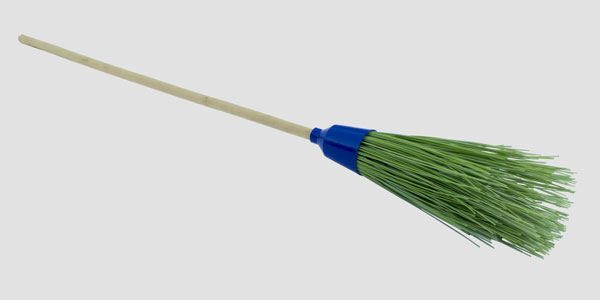
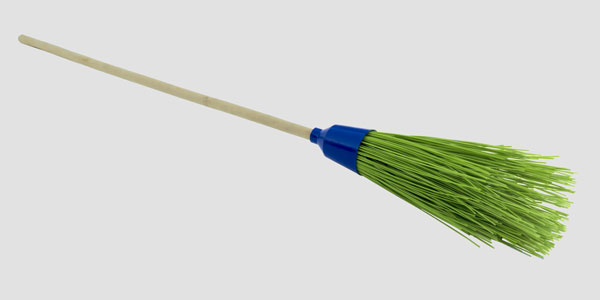
Added product cost. Fixed photoes. Removed company caption from keywords.

Changed region(s): [[0.6, 0.42, 0.96, 0.87]]

diff --git a/index.html b/index.html
@@ -1,4 +1,4 @@
-<!DOCTYPE html>
+<!DOCTYPE html>
 <html>
 <head>
 	<title>Метла круглая и плоская, щетка гардена, щетка GERDA. Производство. Центр ВТО</title>
@@ -8,7 +8,7 @@
 	<meta http-equiv="Cache-Control" content="max-age=86400; must-revalidate">
 	<meta name="viewport" content="width=device-width, initial-scale=1">
 
-	<meta name="keywords" content="метла круглая плоская полипропиленовая щетка гардена пластмассовая пластиковая уборочный инвентарь производство центр вто контакты" />
+	<meta name="keywords" content="метла круглая плоская полипропиленовая щетка гардена пластмассовая пластиковая уборочный инвентарь производство контакты" />
 	<meta name="description" content="Производство качественного уборочного инвентаря: круглая метла, щетка гардена, щетка GERDA | +7 (491) 295-06-43 | sales@hozmetla.ru" />
 
 	<link rel="icon" type="image/x-icon" href="favicon.ico?v=1.0" />
@@ -86,6 +86,7 @@
 						</div>
 						<div class="product-details">
 							<h3 class="text-center">КРУГЛАЯ МЕТЛА <span class="product-caption">PRIMA</span></h3>
+							<div class="product-cost"><span>от 85руб/шт</span></div>
 							<p class="text-center">
 								Проверенный временем и наиболее распространенный инструмент для уборки.
 								Полипропиленовая метла удобна для использования на открытом пространстве.
@@ -104,6 +105,7 @@
 						</div>
 						<div class="product-details2">
 							<h3 class="text-center">УНИВЕРСАЛЬНАЯ ЩЕТКА <span class="product-caption">GERDA</span></h3>
+							<div class="product-cost"><span>от 70руб/шт</span></div>
 							<p class="text-center">
 								Новинка в мире уборочного инвентаря.
 								Щетка GERDA является наиболее универсальным инструментом для уборки как в помещении, так и на улице.
@@ -122,6 +124,7 @@
 						</div>
 						<div class="product-details">
 							<h3 class="text-center">ПЛОСКАЯ МЕТЛА <span class="product-caption">GARDENA LUX</span></h3>
+							<div class="product-cost"><span>от 72руб/шт</span></div>
 							<p class="text-center">
 								Данный инструмент расширяет возможности применения круглой метлы и обладает улучшенными эксплуатационными характеристиками.
 								Щетка гардена удобна для использования на открытом пространстве.

diff --git a/metla.html b/metla.html
@@ -1,4 +1,4 @@
-<!DOCTYPE html>
+<!DOCTYPE html>
 <html>
 <head>
 	<title>Метла круглая полипропиленовая. Производство. Центр ВТО</title>
@@ -108,7 +108,7 @@
 											<img src="img/broom_1_md.jpg" alt="круглая метла. фото 1" class="center-block">
 										</div>
 										<div class="item">
-											<img src="img/broom_2_md.jpg" alt="полипропиленовая метла. фото 2" class="center-block">
+											<img src="img/broom_4_md.jpg" alt="полипропиленовая метла. фото 2" class="center-block">
 										</div>
 										<div class="item">
 											<img src="img/broom_3_md.jpg" alt="пластмассовая метла. фото 3" class="center-block">
@@ -123,7 +123,7 @@
 										<img src="img/broom_1_sm.jpg" alt="миниатюра 1" class="img-responsive center-block">
 									</li>
 									<li data-slide="1">
-										<img src="img/broom_2_sm.jpg" alt="миниатюра 2" class="img-responsive center-block">
+										<img src="img/broom_4_sm.jpg" alt="миниатюра 2" class="img-responsive center-block">
 									</li>
 									<li data-slide="2">
 										<img src="img/broom_3_sm.jpg" alt="миниатюра 3" class="img-responsive center-block">
@@ -262,7 +262,7 @@
 						<img srcTarget="img/broom_1_lg.jpg" alt="круглая метла. фото 1. полный размер" class="center-block">
 					</div>
 					<div class="item">
-						<img srcTarget="img/broom_2_lg.jpg" alt="полипропиленовая метла. фото 2. полный размер" class="center-block">
+						<img srcTarget="img/broom_4_lg.jpg" alt="полипропиленовая метла. фото 2. полный размер" class="center-block">
 					</div>
 					<div class="item">
 						<img srcTarget="img/broom_3_lg.jpg" alt="пластмассовая метла. фото 3. полный размер" class="center-block">

diff --git a/css/site.css b/css/site.css
@@ -155,10 +155,25 @@ main .product .product-details2 {
 main .product .product-details h3,
 main .product .product-details2 h3 {
   color: #FCFF40;
+  margin-top: 0;
 }
 main .product .product-details p,
 main .product .product-details2 p {
   color: #e6e6e6;
+}
+main .product .product-details .product-cost,
+main .product .product-details2 .product-cost {
+  margin: 15px 0 15px 0;
+  text-align: center;
+}
+main .product .product-details .product-cost span,
+main .product .product-details2 .product-cost span {
+  color: #C7F66F;
+  padding: 8px;
+  border-radius: 10px;
+  border: 1px solid #C7F66F;
+  background-color: #383838;
+  font-size: 1.3em;
 }
 @media (min-width: 992px) {
   main .product .product-details,

diff --git a/css/site.less b/css/site.less
@@ -218,10 +218,25 @@ main {
 
 			h3 {
 				color: @text-product-color-hx;
+				margin-top: 0;
 			}
 
 			p {
 				color: @text-product-color;
+			}
+
+			.product-cost {
+				margin: 15px 0 15px 0;
+				text-align: center;
+
+				span {
+					color: @product-decoration-text-color-3;
+					padding: 8px;
+					border-radius: 10px;
+					border: 1px solid @product-decoration-text-color-3;
+					background-color: @bg-header-color;
+					font-size: 1.3em;
+				}
 			}
 
 			@media (min-width: @screen-md-min) {
